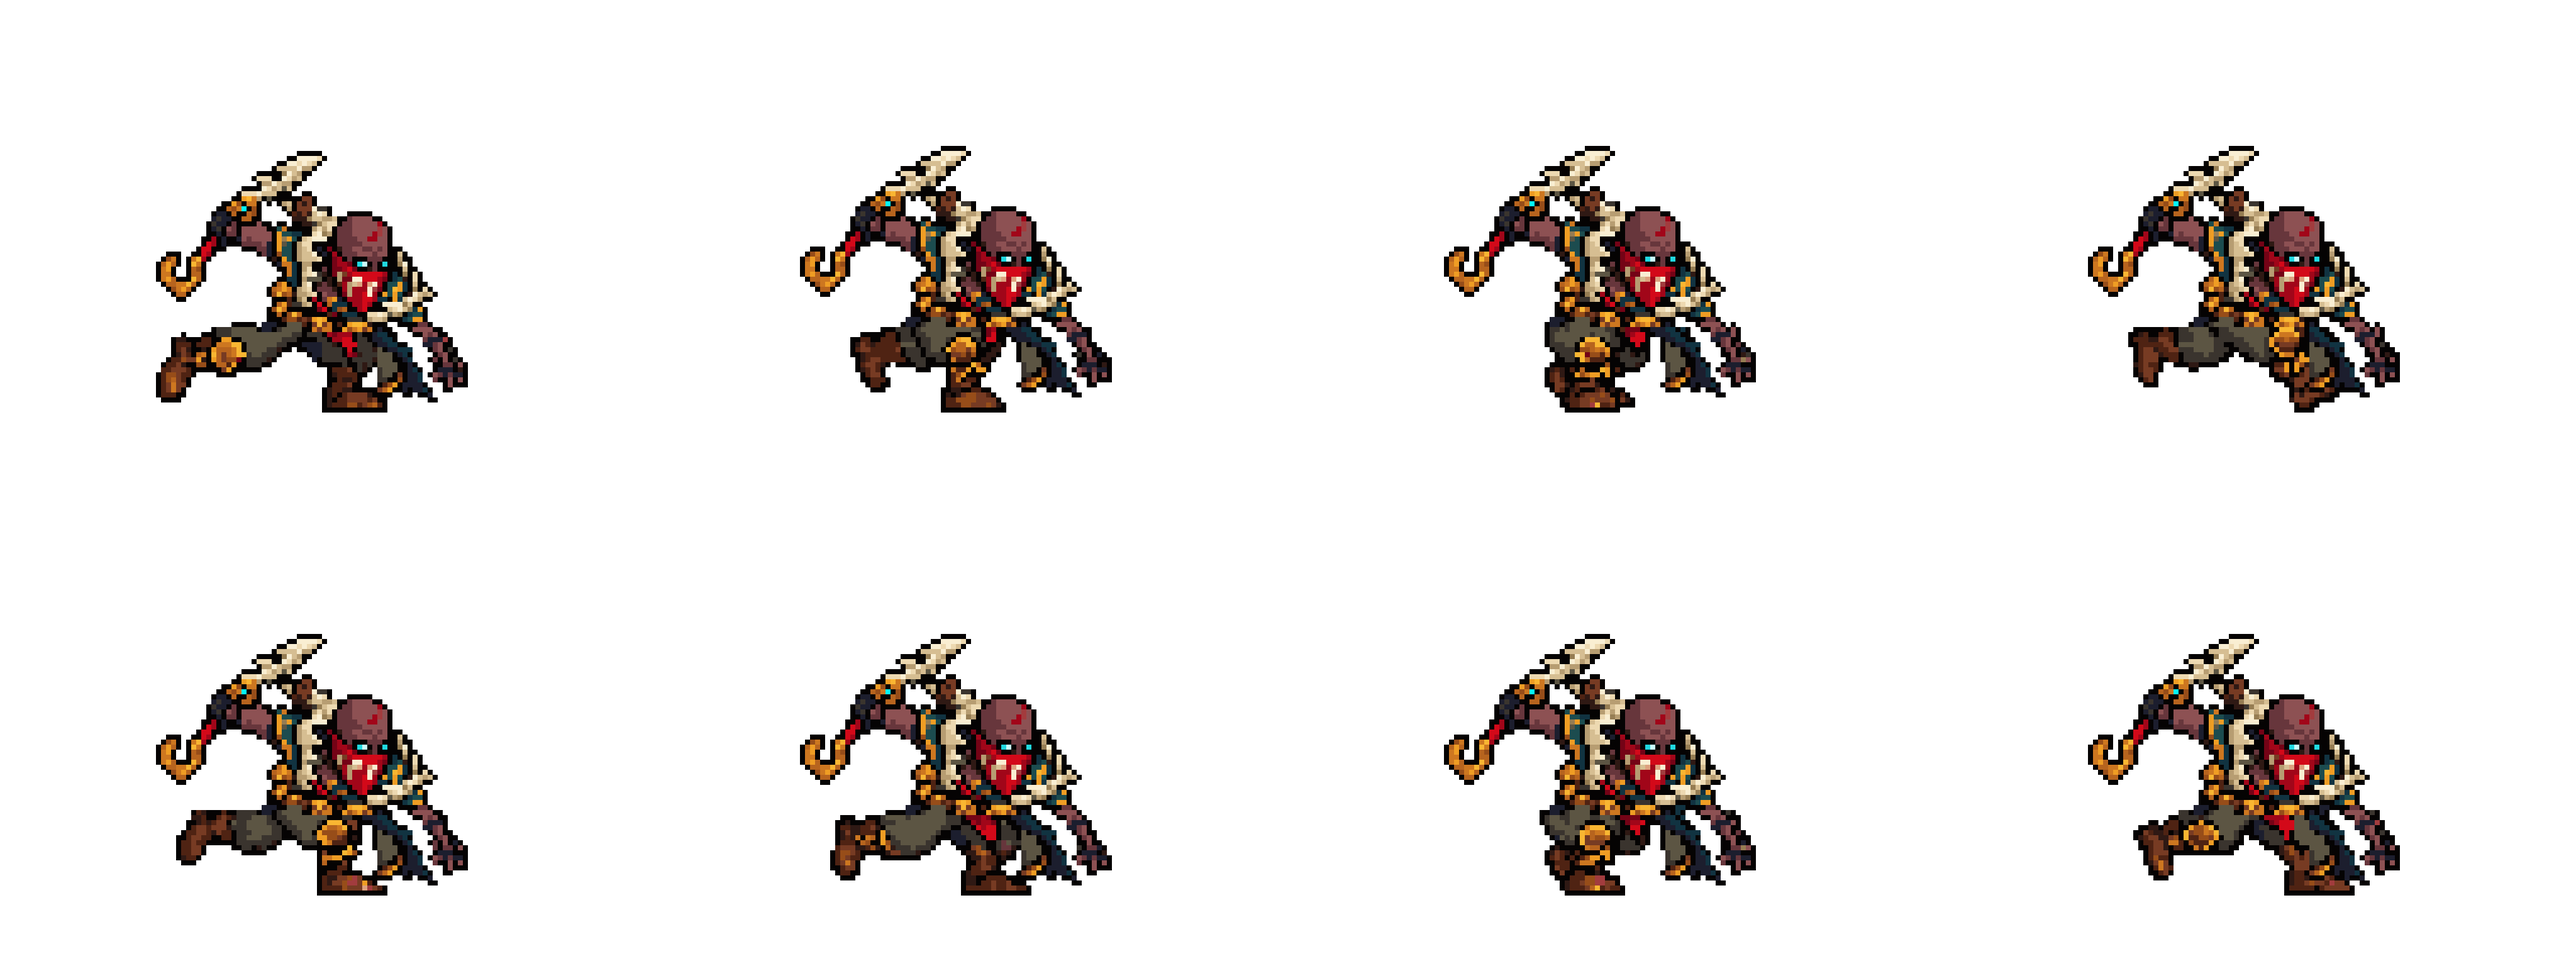
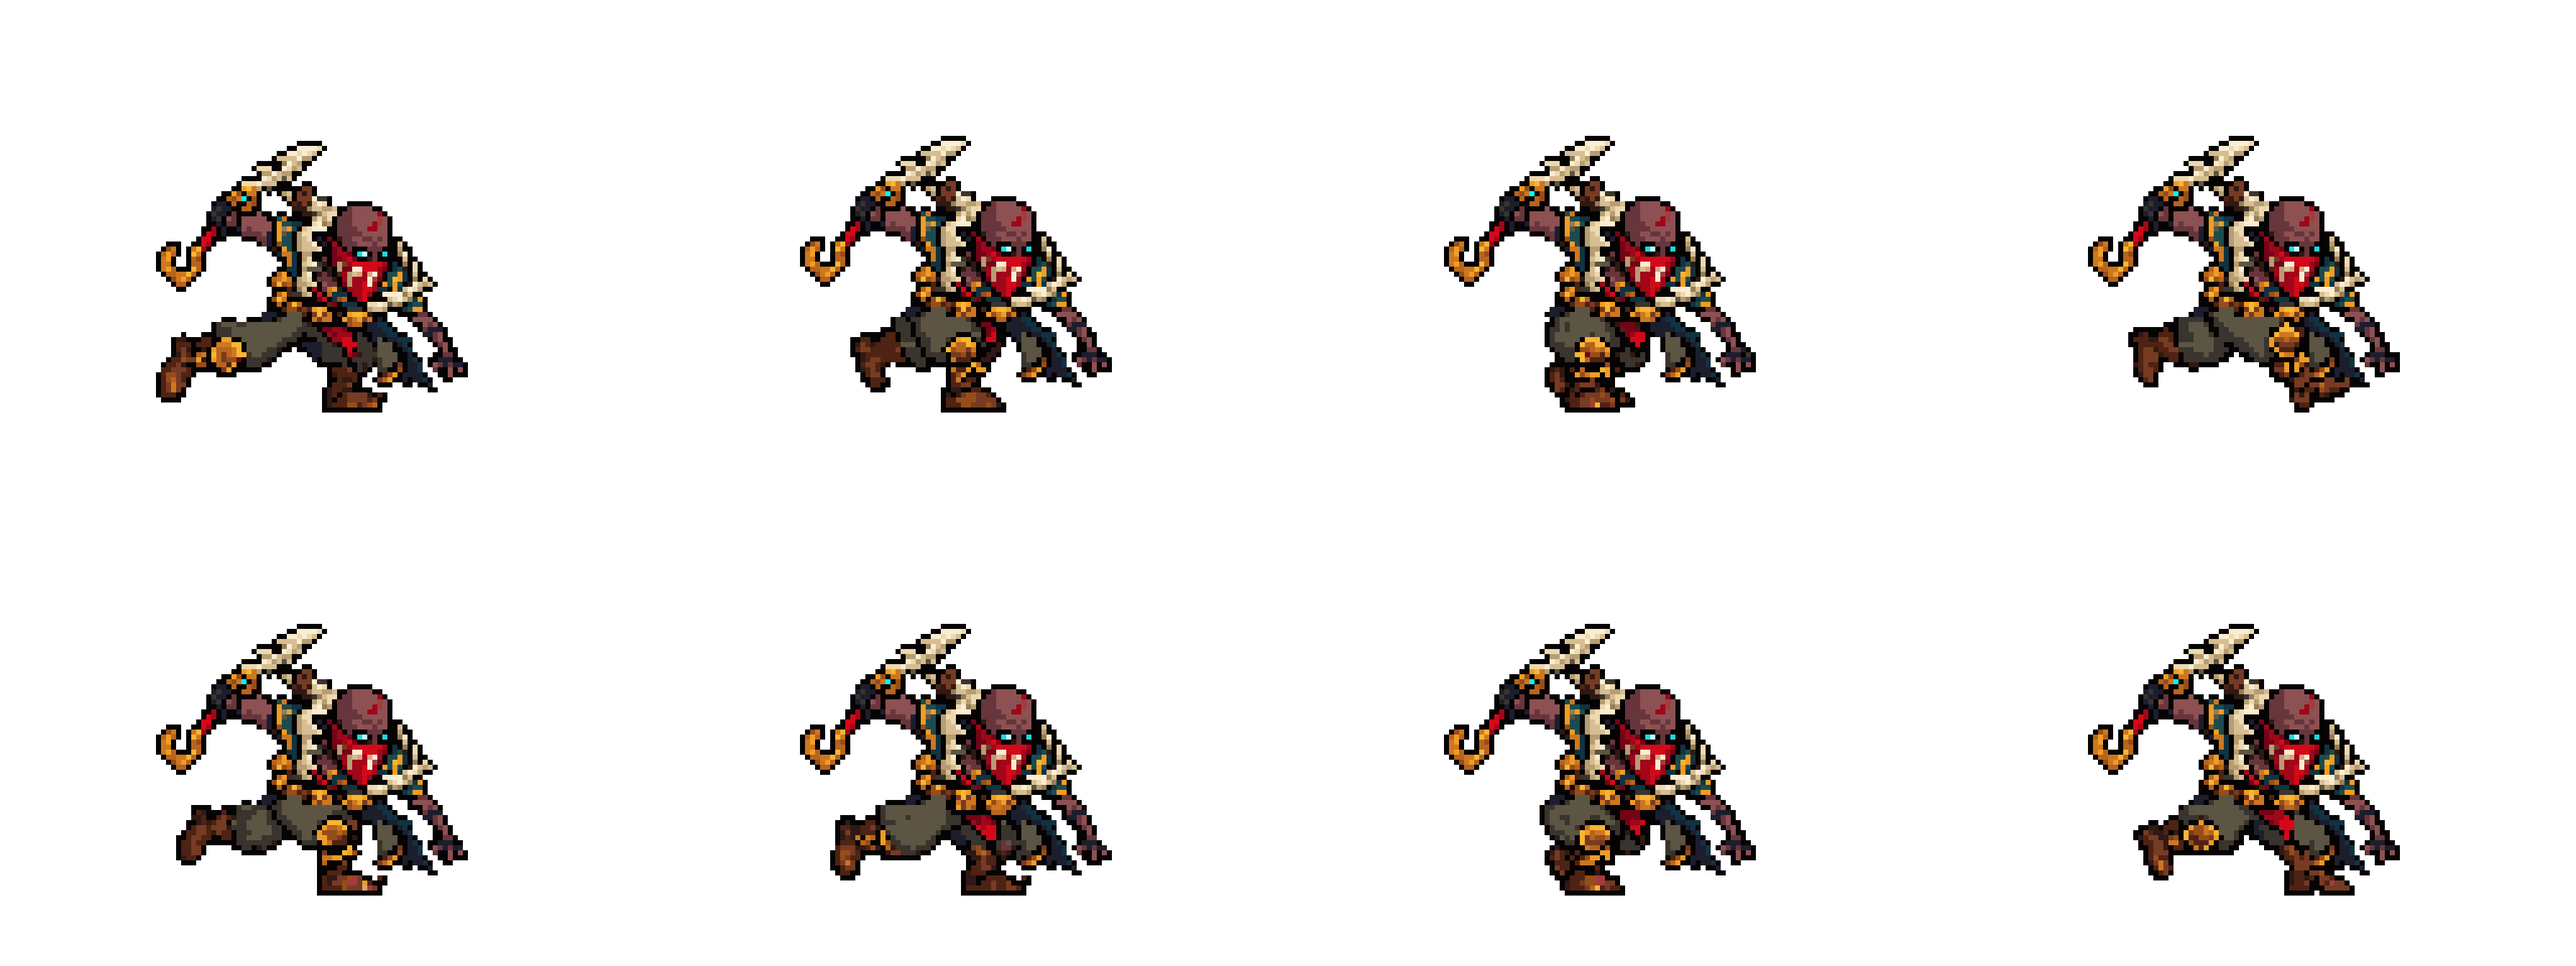
Pyke: the run's upper body set on Codex's legs by the belt, not the head (「上下半身错位啊」)
Matched on the head, the design's upper body sat up to two rows off the hips Codex drew; matched on the belt it sits
where Codex's body stood (bob kept within a row, legs taken from just under it). Codex's finished run (legs with no
outline, loose hem pieces) is kept as a source only; its raw legs are read.

diff --git a/assets/source/pyke/codex_run/finish_run_swap.py b/assets/source/pyke/codex_run/finish_run_swap.py
@@ -1,0 +1,49 @@
+from pathlib import Path
+from PIL import Image, ImageDraw
+import numpy as np,json,shutil,zipfile
+out=Path('outputs/pyke-run');out.mkdir(parents=True,exist_ok=True)
+sheet=Image.open('work/run-candidate-sheet.png').convert('RGBA')
+native=sheet.resize((512,192),Image.Resampling.NEAREST)
+sheet.save(out/'pyke_run.png');native.save(out/'pyke_run_1x.png')
+green=Image.new('RGBA',sheet.size,'#00ff00');green.alpha_composite(sheet);green.convert('RGB').save(out/'pyke_run_green.png')
+source=np.array(Image.open('work/pyke_run_swap_pack/2_pyke_design.png').convert('RGBA'))[::8,::8]
+palette={tuple(v[:3]) for v in source.reshape(-1,4) if v[3]}
+fixed=Image.open('work/run-fixed-upper.png').convert('RGBA');fixed.alpha_composite(Image.open('work/run-fixed-extension.png'))
+placement=json.loads(Path('work/run-placement.json').read_text())
+frames=[];report=[]
+(out/'frames').mkdir(exist_ok=True)
+contact=Image.new('RGB',(1024,512),'#303642');draw=ImageDraw.Draw(contact)
+for i,p in enumerate(placement):
+ fr=native.crop(((i%4)*128,(i//4)*96,(i%4+1)*128,(i//4+1)*96));a=np.array(fr)
+ expect=Image.new('RGBA',(128,96));expect.alpha_composite(fixed,(0,-18+p['upper_bob']));e=np.array(expect);mask=e[:,:,3]>0
+ assert np.array_equal(a[mask],e[mask]),f'fixed pixels frame {i+1}'
+ assert not np.any(a[82:,:,3]),f'floor frame {i+1}'
+ assert set(np.unique(a[:,:,3]))<={0,255}
+ assert {tuple(v[:3]) for v in a.reshape(-1,4) if v[3]}<=palette
+ ys,xs=np.where(a[:,:,3]>0);assert ys.max()==81
+ # Remove invariant cloth/hand pixels before measuring the new legs.
+ leg=a.copy();leg[mask]=0;leg[:64]=0
+ ly,lx=np.where(leg[:,:,3]>0)
+ gold=(leg[:,:,3]>0)&(leg[:,:,0]>180)&(leg[:,:,1]>100)&(leg[:,:,1]<200)&(leg[:,:,2]<60)
+ gy,gx=np.where(gold & (np.indices(gold.shape)[0]<75))
+ sole=(leg[79:82,:,3]>0);sy,sx=np.where(sole)
+ report.append({'frame':i+1,'upper_bob':p['upper_bob'],'fixed_pixels_exact':True,'opaque_bbox':list(fr.getbbox()),'bottom_row':int(ys.max()),'leg_x_extent':[int(lx.min()),int(lx.max())],'leg_width':int(lx.max()-lx.min()+1),'gold_knee_mean_x':round(float(gx.mean()),2) if gx.size else None,'bottom_three_rows_x_extent':[int(sx.min()),int(sx.max())] if sx.size else None})
+ fr.save(out/'frames'/f'run_{i+1:02d}_1x.png')
+ preview=Image.new('RGBA',(128,96),'#303642');preview.alpha_composite(fr)
+ zoom=preview.resize((512,384),Image.Resampling.NEAREST).convert('RGB');frames.append(zoom)
+ contact.paste(preview.resize((256,192),Image.Resampling.NEAREST).convert('RGB'),((i%4)*256,(i//4)*256+24));draw.text(((i%4)*256+12,(i//4)*256+6),str(i+1),fill='white')
+assert len({f.tobytes() for f in frames})==8
+assert report[0]['gold_knee_mean_x']<report[4]['gold_knee_mean_x']-10
+assert report[2]['leg_width']<report[0]['leg_width']
+assert report[6]['leg_width']<report[4]['leg_width']
+assert np.array_equal(np.array(sheet),np.repeat(np.repeat(np.array(native),8,0),8,1))
+frames[0].save(out/'pyke_run_preview.gif',save_all=True,append_images=frames[1:],duration=[140,130]*4,loop=0,disposal=2)
+contact.save(out/'pyke_run_contact.png')
+validation={'frame_count':8,'layout':[4,2],'cell_native':[128,96],'scale':8,'pivot_x':64,'floor_row':81,'source_palette_size':len(palette),'hard_alpha':True,'exact_8x_blocks':True,'upper_body_exact':True,'crossing_width_checks':True,'near_leg_alternation_check':True,'duration_ms':135,'gif_duration_ms':[140,130]*4,'in_game_tested':False,'frames':report}
+(out/'validation.json').write_text(json.dumps(validation,ensure_ascii=False,indent=2),encoding='utf-8')
+shutil.copy2('work/prepare_run_swap.py',out/'prepare_run_swap.py');shutil.copy2(__file__,out/'finish_run_swap.py')
+(out/'references').mkdir(exist_ok=True)
+for file in Path('work/pyke_run_swap_pack').glob('*'):
+ if file.is_file():shutil.copy2(file,out/'references'/file.name)
+shutil.copy2('work/run-swap-prompt.txt',out/'raw/prompt_initial.txt')
+print(json.dumps(report,ensure_ascii=False))

diff --git a/assets/source/pyke/codex_run/prepare_run_swap.py b/assets/source/pyke/codex_run/prepare_run_swap.py
@@ -1,0 +1,47 @@
+from PIL import Image,ImageDraw,ImageFont
+from pathlib import Path
+import numpy as np,json
+ROOT=Path('work/pyke_run_swap_pack');OUT=Path('outputs/pyke-run')
+design=np.array(Image.open(ROOT/'2_pyke_design.png').convert('RGBA'))[::8,::8]
+upper=np.array(Image.open(ROOT/'4_pyke_upper_body.png').convert('RGBA'))[::8,::8]
+colors=sorted({tuple(v[:3]) for v in design.reshape(-1,4) if v[3]})
+pal=Image.new('P',(1,1));rgb=colors+[(0,255,0)];flat=sum([list(c) for c in rgb],[]);pal.putpalette(flat+[0]*(768-len(flat)))
+raw=Image.open(OUT/'raw/pyke_run_phase_fix_raw.png').convert('RGB')
+assert raw.size==(2048,768)
+quant=np.array(raw.quantize(palette=pal,dither=Image.Dither.NONE))
+native=np.zeros((192,512,4),np.uint8)
+for y in range(192):
+ for x in range(512):
+  block=quant[y*4:y*4+4,x*4:x*4+4].reshape(-1)
+  v=int(np.bincount(block,minlength=256).argmax())
+  if v<len(colors):native[y,x]=[*colors[v],255]
+Image.fromarray(native).resize((4096,1536),Image.Resampling.NEAREST).save('work/run-regrid.png')
+sheet=Image.new('RGBA',(512,192));stats=[]
+for i in range(8):
+ source_i=[0,7,2,3,4,1,6,5][i]
+ a=native[(source_i//4)*96:(source_i//4+1)*96,(source_i%4)*128:(source_i%4+1)*128]
+ # Take the freshly drawn lower body only; frame-local floor is measured, not trimmed away.
+ lower=a.copy();lower[:61]=0;lower[:,84:]=0;lower[:,:28]=0
+ ys,xs=np.where(lower[:,:,3]>0);bottom=int(ys.max());dy=81-bottom
+ legs=Image.fromarray(lower);fr=Image.new('RGBA',(128,96));fr.alpha_composite(legs,(0,dy))
+ fa=np.array(fr);fa[:64]=0;fr=Image.fromarray(fa)
+ bob=0 if i in [0,4] else -1 if i in [2,6] else 0
+ up=Image.fromarray(upper);fr.alpha_composite(up,(0,-18+bob))
+ # The supplied upper cut stops at the belt. Keep the fixed design's exposed forearm/claw too.
+ arm=design.copy();yy,xx=np.indices((128,128))
+ cloth_colors=[(17,51,65),(28,30,46),(28,76,79),(116,3,22),(161,6,25),(211,9,25)]
+ cloth=np.zeros((128,128),bool)
+ for c in cloth_colors:cloth|=np.all(design[:,:,:3]==c,axis=2)
+ keep=((yy>=83)&cloth)|((yy>=83)&(yy<=95)&(xx>=83)&(xx<=94))
+ arm[~keep]=0
+ fr.alpha_composite(Image.fromarray(arm),(0,-18+bob))
+ fr.save('work/run-candidate-'+str(i+1)+'.png');sheet.alpha_composite(fr,((i%4)*128,(i//4)*96))
+ stats.append({'frame':i+1,'raw_source_frame':source_i+1,'raw_bottom':bottom,'leg_shift_y':dy,'upper_bob':bob})
+sheet.resize((4096,1536),Image.Resampling.NEAREST).save('work/run-candidate-sheet.png')
+contact=Image.new('RGBA',(2048,448),'#dddde0');draw=ImageDraw.Draw(contact)
+for i in range(8):
+ fr=Image.open('work/run-candidate-'+str(i+1)+'.png');bg=Image.new('RGBA',fr.size,'#dddde0');bg.alpha_composite(fr);contact.alpha_composite(bg.resize((256,192),Image.Resampling.NEAREST),(i*256,32));draw.text((i*256+5,8),str(i+1),fill='black')
+contact.convert('RGB').save('work/run-candidate-contact.png');print(json.dumps(stats))
+Image.fromarray(arm).save('work/run-fixed-extension.png')
+Image.fromarray(upper).save('work/run-fixed-upper.png')
+Path('work/run-placement.json').write_text(json.dumps(stats,indent=2))

diff --git a/tools/art/rig_pyke.py b/tools/art/rig_pyke.py
@@ -167,35 +167,39 @@ class Rig:
         return K.finish(c, self.out, SOLES, keep=keep)
 
     def run(self):
-        des, hm = self.a, self.hm
+        """Codex's legs under the design's own upper body, placed where Codex's body stands in that frame: matched on
+        the belt (the legs hang from the hips), so legs and hips meet; the bob kept within one row (a frame lower than
+        that keeps its upper body a row up and takes Codex's legs from the row under it, no gap)."""
+        des = self.a
         dys, dxs = np.nonzero(des[..., 3])
         mid = (dxs.min() + dxs.max()) // 2
-        hm4 = np.repeat(hm[..., None], 4, -1).astype(np.uint8) * 255
+        yy, xx = np.mgrid[0:128, 0:128]
+        belt = (yy >= 76) & (yy <= 84) & (xx >= 50) & (xx <= 80) & (des[..., 3] > 0)
+        belt4 = np.repeat(belt[..., None], 4, -1).astype(np.uint8) * 255
         placed = []
         for sm in read_run(self.d.palette):
             c = np.zeros_like(des)
             K.put(c, sm, mid - sm.shape[1] // 2, SOLES - sm.shape[0] + 1)
             best = max((int(((c[..., :3] == K.shifted(des, dx, dy)[..., :3]).all(-1)
-                             & (K.shifted(hm4, dx, dy)[..., 3] > 0)).sum()), dx, dy)
-                       for dx in range(-8, 9) for dy in range(-4, 5))
+                             & (K.shifted(belt4, dx, dy)[..., 3] > 0)).sum()), dx, dy)
+                       for dx in range(-8, 9) for dy in range(-5, 5))
             placed.append((c, best[1], best[2]))
-        mdx = int(round(np.mean([p[1] for p in placed])))
-        low = min(p[2] for p in placed)
-        yy, xx = np.mgrid[0:128, 0:128]
+        top = min(p[2] for p in placed)
         up = des.copy()
         up[RUN_SEAM:] = 0
         hang = des.copy()
         hang[(yy < RUN_SEAM) | (xx < 76)] = 0
+        hm4 = np.repeat(self.hm[..., None], 4, -1).astype(np.uint8) * 255
         frames = []
         for c, dx, dy in placed:
+            at = min(dy, top + 1)                      # the upper body's row offset: within one row of the highest
             out = np.zeros_like(des)
             legs = c.copy()
-            legs[:RUN_SEAM + max(dy, 0)] = 0
-            K.put(out, legs, mdx - dx, 0)
-            bob = max(0, min(1, dy - low))
-            K.put(out, hang, mdx, bob)
-            K.put(out, up, mdx, bob)
-            keep = K.shifted(hm4, mdx, bob)[..., 3] > 0
+            legs[:RUN_SEAM + at] = 0                   # Codex's legs from just under where our upper body ends
+            K.put(out, legs, 0, 0)
+            K.put(out, hang, dx, at)
+            K.put(out, up, dx, at)
+            keep = K.shifted(hm4, dx, at)[..., 3] > 0
             f = K.finish(out, self.out, SOLES, keep=keep)
             for comp in K.pieces(f)[1:]:
                 if len(comp) < 12:

diff --git a/assets/source/pyke/codex_run/HANDOFF.md b/assets/source/pyke/codex_run/HANDOFF.md
@@ -1,0 +1,36 @@
+# 派克跑步修复交接
+
+## 文件
+
+- `pyke_run.png`：透明，4096×1536，4 列×2 行，8 帧。
+- `pyke_run_1x.png`：透明，512×192，每帧 128×96。
+- `pyke_run_green.png`：相同内容，纯绿背景。
+- `pyke_run_preview.gif`：循环预览；`pyke_run_contact.png`：帧序检查。
+- `frames/`：八张单帧；`raw/`：两次生图及提示词；`references/`：用户提供的原始参考。
+- `validation.json`：像素检查及运动位置测量。
+
+## 修复方法
+
+使用内置 ImageGen 重画跑步腿部。第一次原稿没有充分交换近腿、远腿，保留作过程记录；第二次明确指定八帧交叉步，作为最终腿部来源。每个 4×4 生图格先映射定稿色板，再按多数色还原 1 倍像素；最终严格最近邻放大 8 倍。未旋转旧造型的整条腿。
+
+上半身直接复制参考图 4，不使用生图的头、衣服、手和鱼叉。图 4 在原始第 82 行处结束，另从图 2 恢复其下的红腰布、深蓝下摆及前爪。这些保留像素均逐帧校验。只有第 3、7 帧整体上移一格；第 1、5 帧处于低位。原图头顶行 59 平移到 41，高位为 40；脚底统一为 81。
+
+最终腿部采用第二次原稿的帧序 **1、8、3、4、5、2、7、6**，使护膝腿从后方摆向前方，再摆回。生成腿部按测得的最低行整体垂直平移，对齐脚底；遮去腰带以上的生成腿部，贴回固定上身。没有逐帧缩放身体。
+
+## 验证
+
+- 8 帧均不相同；上半身及恢复的布料、爪子像素与源图完全一致。
+- 8×8 色块严格对齐；只使用定稿的 29 色；透明度只有 0/255。
+- 每帧脚底位于第 81 行；第 82 行以下透明。
+- 近侧金护膝平均横坐标：44.14、52.81、61.62、73.77、72.20、67.75、61.64、44.00。
+- 第 1、5 帧近侧腿前后互换。第 3、7 帧腿部收在身体下交错，横向跨度均为 33 格，低于两帧伸展姿势的 55、50 格。
+- `validation.json` 的 bottom_three_rows_x_extent 测量落地处像素范围；不是两个脚的独立中心点。
+- GIF 以 140/130 毫秒交替表示原先每帧 135 毫秒的平均时长，总长 1080 毫秒。正式动画表保持原生时长。
+
+腿部是按照参考关键姿势重画的动画，并非对骨架参考逐像素描摹。文件格式与像素约束已验证；尚未安装到游戏，未做战斗、地形及 HUD 实机验证。
+
+## 复现脚本
+
+`prepare_run_swap.py` 和 `finish_run_swap.py` 使用 Python、Pillow、NumPy，保留本次工作区的相对路径。需要将 `references/` 放到工作区 `work/pyke_run_swap_pack/`，将本目录放到 `outputs/pyke-run/`，从工作区根目录依次运行两脚本；原始提示词另复制为 `work/run-swap-prompt.txt`。
+
+本次请求只修复跑步图，没有修改旧版完整动作包或游戏目录。
